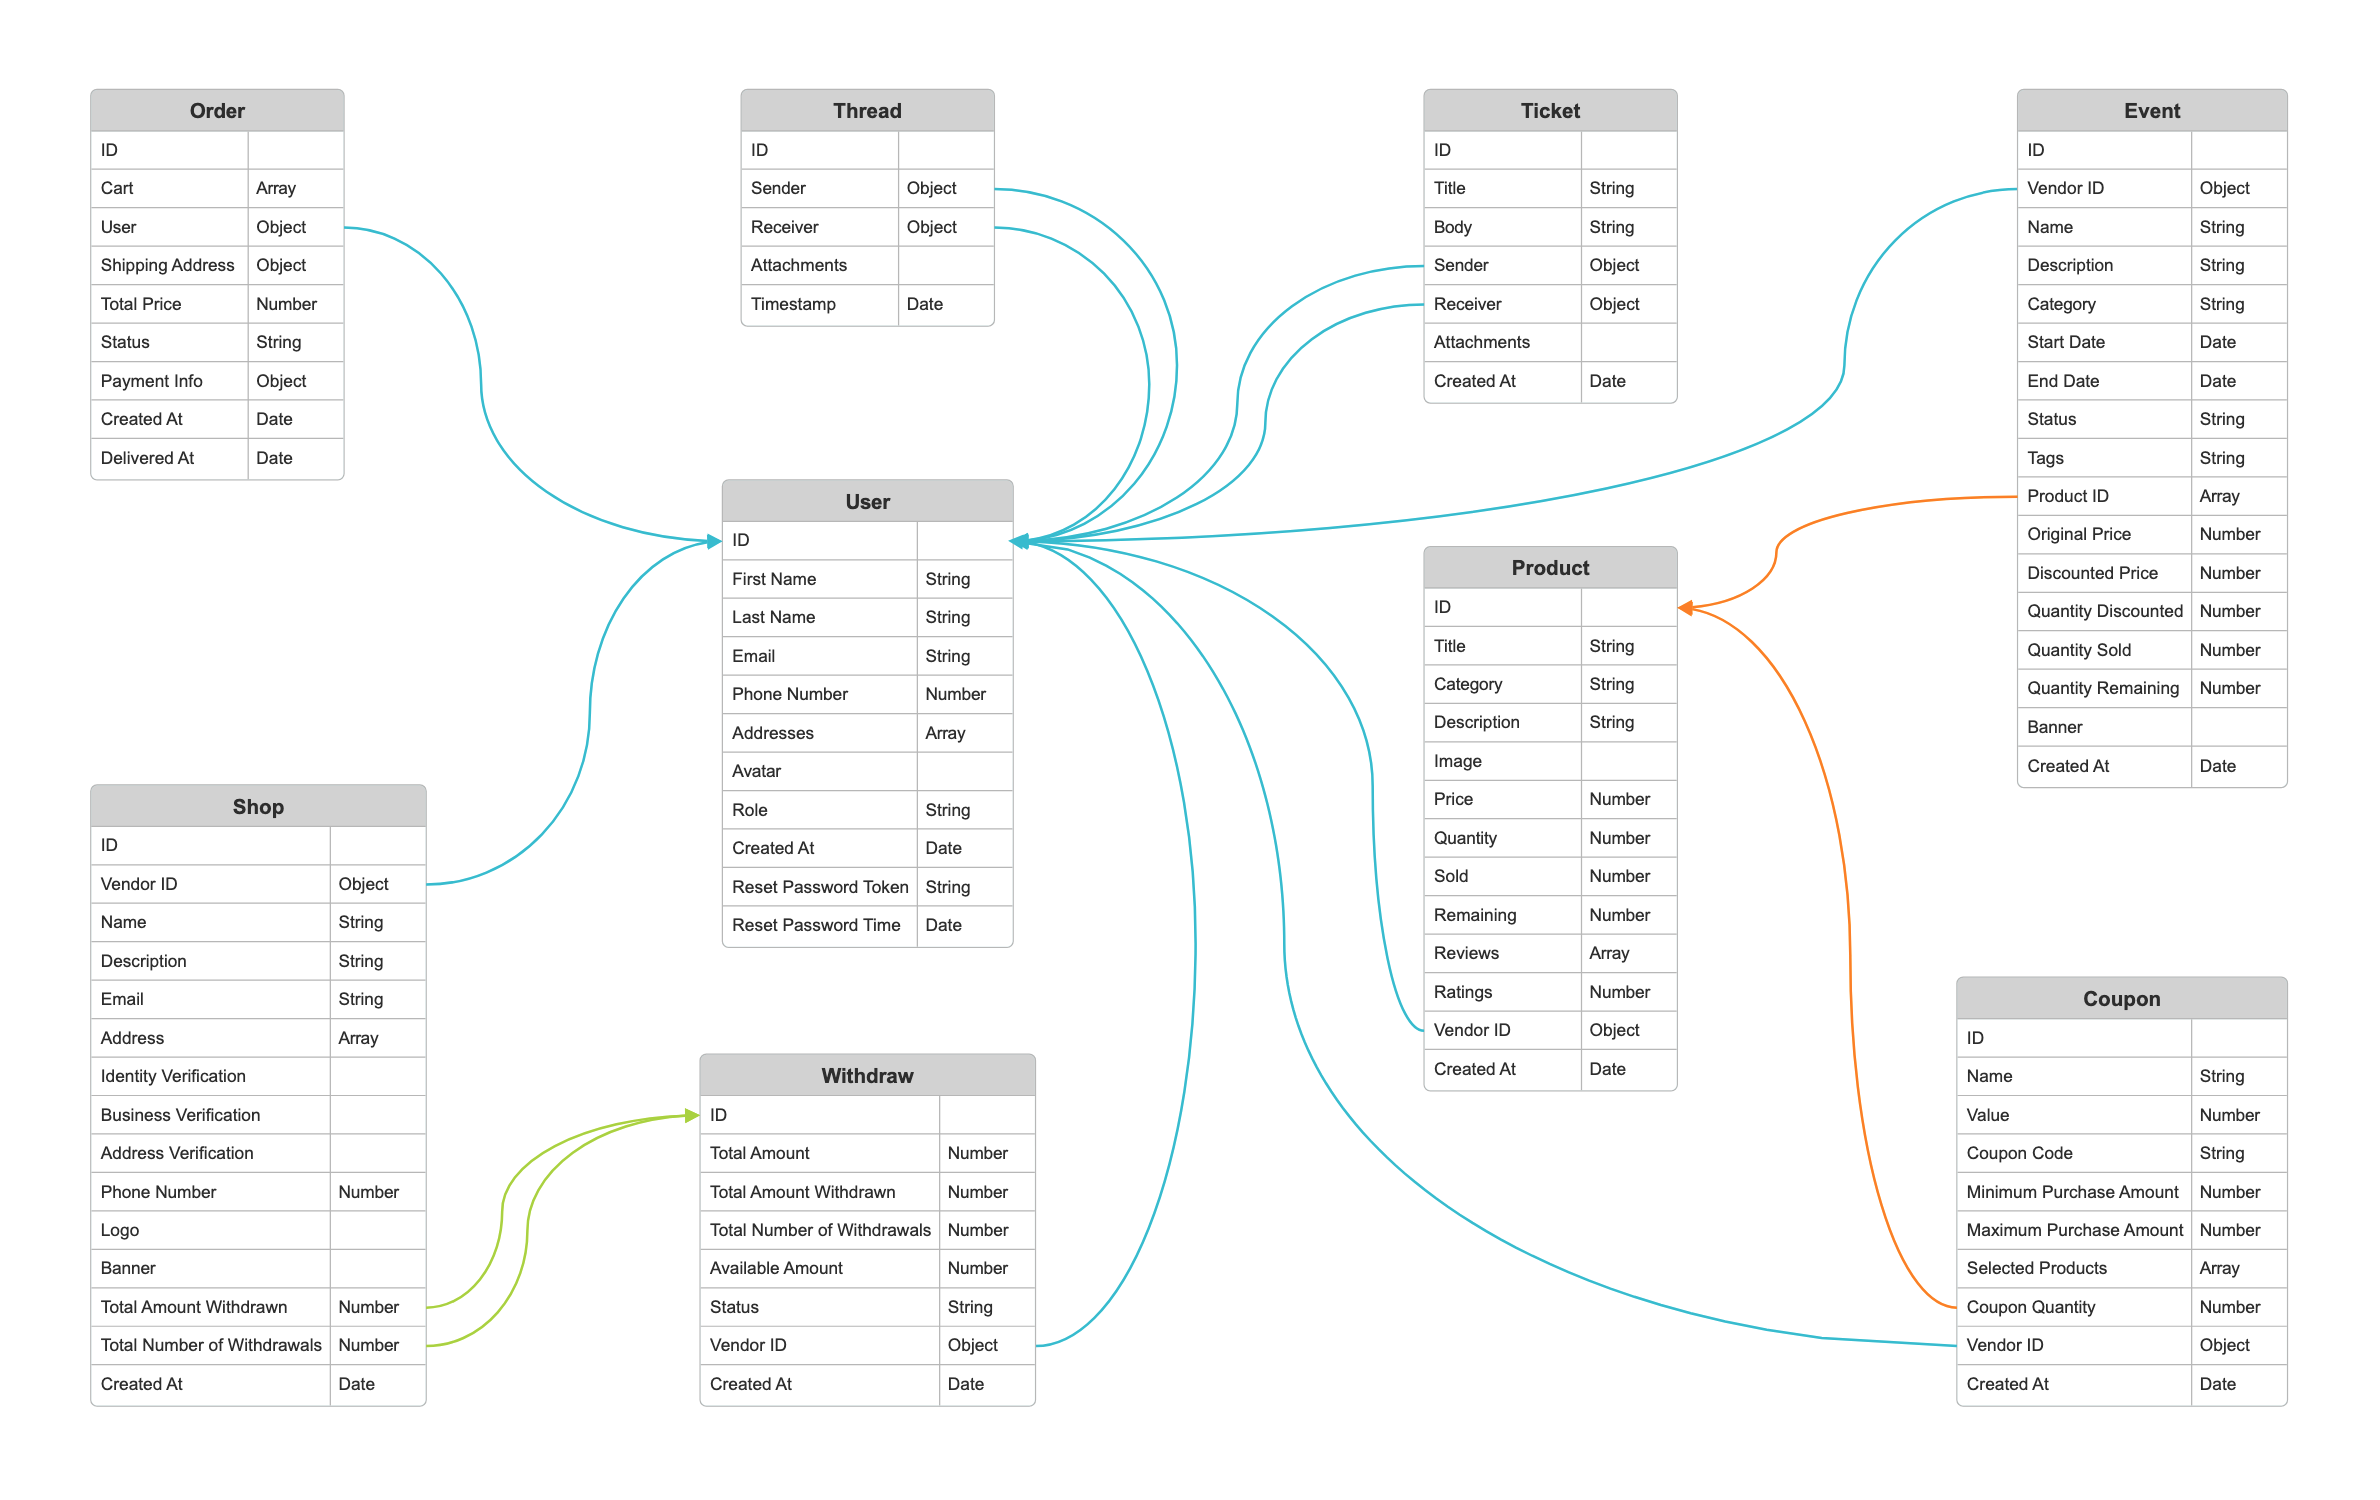
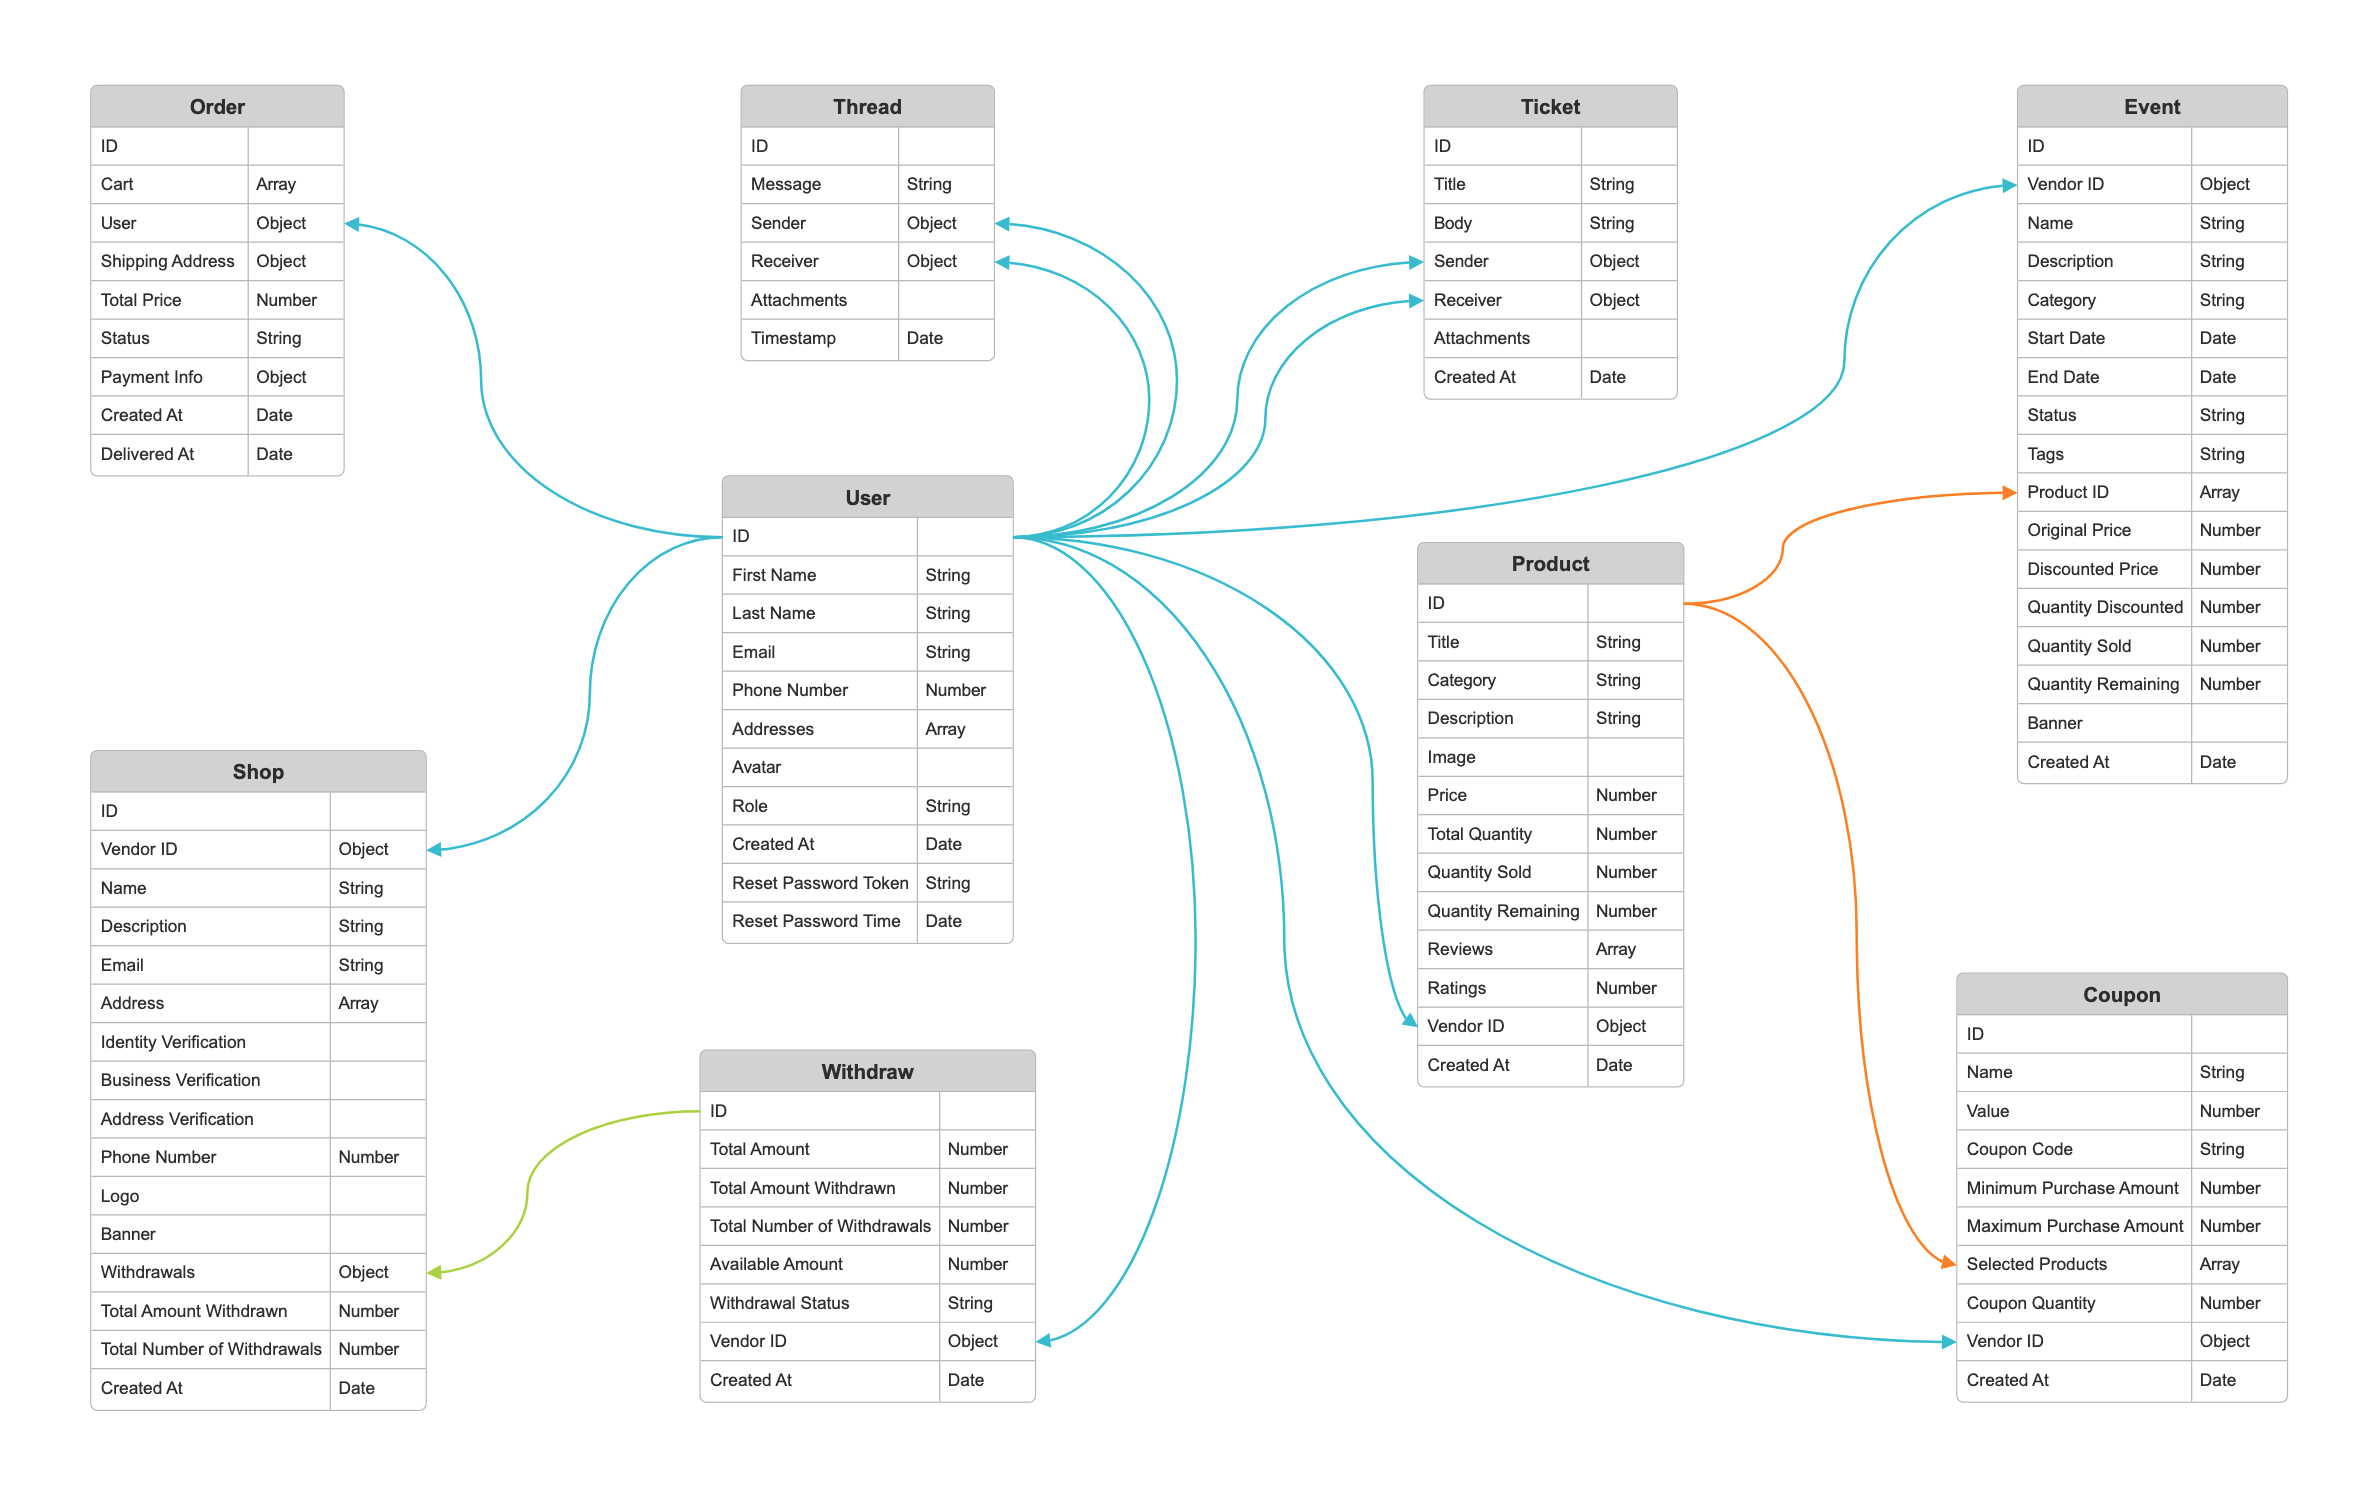
Documentation: Made numerous improvements
1. Fixed the "Required" field in several schemas
2. Fixed the type of foreign keys
3. Renamed a few keys
4. Updated schema design
5. Added default values to a few keys

diff --git a/documentation/schemaDesign.md b/documentation/schemaDesign.md
@@ -1,5 +1,7 @@
 ### Schema Design
 
+<br>
+
 #### Data Sets
 
 - User Schema
@@ -37,20 +39,20 @@
 
 #### Product Schema
 
-| Key         | Type   | Required | Unique | Default      | Foreign Key |
-| ----------- | ------ | -------- | ------ | ------------ | ----------- |
-| Title       | String | Yes      |        |              |             |
-| Category    | String | Yes      |        |              |             |
-| Description | String | Yes      |        |              |             |
-| Image       |        | Yes      |        |              |             |
-| Price       | Number | Yes      |        |              |             |
-| Quantity    | Number | Yes      |        | 0            |             |
-| Sold        | Number | Yes      |        | 0            |             |
-| Remaining   | Number | Yes      |        | 0            |             |
-| Reviews     | Array  |          |        |              |             |
-| Ratings     | Number |          |        |              |             |
-| Vendor ID   | Object |          |        |              | User Schema |
-| Created At  | Date   |          |        | Current time |             |
+| Key                | Type   | Required | Unique | Default      | Foreign Key |
+| ------------------ | ------ | -------- | ------ | ------------ | ----------- |
+| Title              | String | Yes      |        |              |             |
+| Category           | String | Yes      |        |              |             |
+| Description        | String | Yes      |        |              |             |
+| Image              |        | Yes      |        |              |             |
+| Price              | Number | Yes      |        |              |             |
+| Total Quantity     | Number | Yes      |        | 0            |             |
+| Quantity Sold      | Number |          |        | 0            |             |
+| Quantity Remaining | Number |          |        | 0            |             |
+| Reviews            | Array  |          |        |              |             |
+| Ratings            | Number |          |        |              |             |
+| Vendor ID          | Object |          |        |              | User Schema |
+| Created At         | Date   |          |        | Current time |             |
 
 <br>
 
@@ -58,11 +60,11 @@
 
 | Key              | Type   | Required | Unique | Default      | Foreign Key |
 | ---------------- | ------ | -------- | ------ | ------------ | ----------- |
-| Cart             | Array  | Yes      |        |              |             |
-| User             | Object | Yes      |        |              | User Schema |
+| Cart             | Array  |          |        |              |             |
+| User             | Object |          |        |              | User Schema |
 | Shipping Address | Object | Yes      |        |              |             |
-| Total Price      | Number | Yes      |        |              |             |
-| Status           | String | Yes      |        | Processing   |             |
+| Total Price      | Number |          |        |              |             |
+| Status           | String |          |        | Processing   |             |
 | Payment Info     | Object | Yes      |        |              |             |
 | Created At       | Date   |          |        | Current Time |             |
 | Delivered At     | Date   |          |        |              |             |
@@ -123,8 +125,9 @@
 | Phone Number                | Number | Yes      |        |              |                 |
 | Logo                        |        | Yes      |        |              |                 |
 | Banner                      |        | Yes      |        |              |                 |
-| Total Amount Withdrawn      | Number |          |        |              | Withdraw Schema |
-| Total Number of Withdrawals | Number |          |        |              | Withdraw Schema |
+| Withdrawals                 | Object |          |        |              | Withdraw Schema |
+| Total Amount Withdrawn      | Number |          |        | 0            |                 |
+| Total Number of Withdrawals | Number |          |        | 0            |                 |
 | Created At                  | Date   |          |        | Current Time |                 |
 
 <br>
@@ -133,13 +136,13 @@
 
 | Key                         | Type   | Required | Unique | Default      | Foreign Key |
 | --------------------------- | ------ | -------- | ------ | ------------ | ----------- |
-| Total Amount                | Number | Yes      |        | 0            |             |
-| Total Amount Withdrawn      | Number | Yes      |        | 0            |             |
-| Total Number of Withdrawals | Number | Yes      |        | 0            |             |
-| Available Amount            | Number | Yes      |        | 0            |             |
-| Status                      | String | Yes      |        |              |             |
-| Vendor ID                   | Object | Yes      |        |              | User Schema |
-| Created At                  | Date   | Yes      |        | Current Time |             |
+| Total Amount                | Number |          |        | 0            |             |
+| Total Amount Withdrawn      | Number |          |        | 0            |             |
+| Total Number of Withdrawals | Number |          |        | 0            |             |
+| Available Amount            | Number |          |        | 0            |             |
+| Withdrawal Status           | String |          |        |              |             |
+| Vendor ID                   | Object |          |        |              | User Schema |
+| Created At                  | Date   |          |        | Current Time |             |
 
 <br>
 
@@ -149,10 +152,10 @@
 | ----------- | ------ | -------- | ------ | ------------ | ----------- |
 | Title       | String | Yes      |        |              |             |
 | Body        | String | Yes      |        |              |             |
-| Sender      | Object | Yes      |        |              | User Schema |
-| Receiver    | Object | Yes      |        |              | User Schema |
+| Sender      | Object |          |        |              | User Schema |
+| Receiver    | Object |          |        |              | User Schema |
 | Attachments |        |          |        |              |             |
-| Created At  | Date   | Yes      |        | Current Time |             |
+| Created At  | Date   |          |        | Current Time |             |
 
 <br>
 
@@ -160,8 +163,9 @@
 
 | Key             | Type   | Required | Unique | Default      | Foreign Key |
 | --------------- | ------ | -------- | ------ | ------------ | ----------- |
-| Conversation ID |        | Yes      |        |              |             |
-| Sender          | Object | Yes      |        |              | User Schema |
-| Receiver        | Object | Yes      |        |              | User Schema |
+| Conversation ID |        |          |        |              |             |
+| Message         | String | Yes      |        |              |             |
+| Sender          | Object |          |        |              | User Schema |
+| Receiver        | Object |          |        |              | User Schema |
 | Attachments     |        |          |        |              |             |
-| Timestamp       | Date   | Yes      |        | Current Time |             |
+| Timestamp       | Date   |          |        | Current Time |             |
